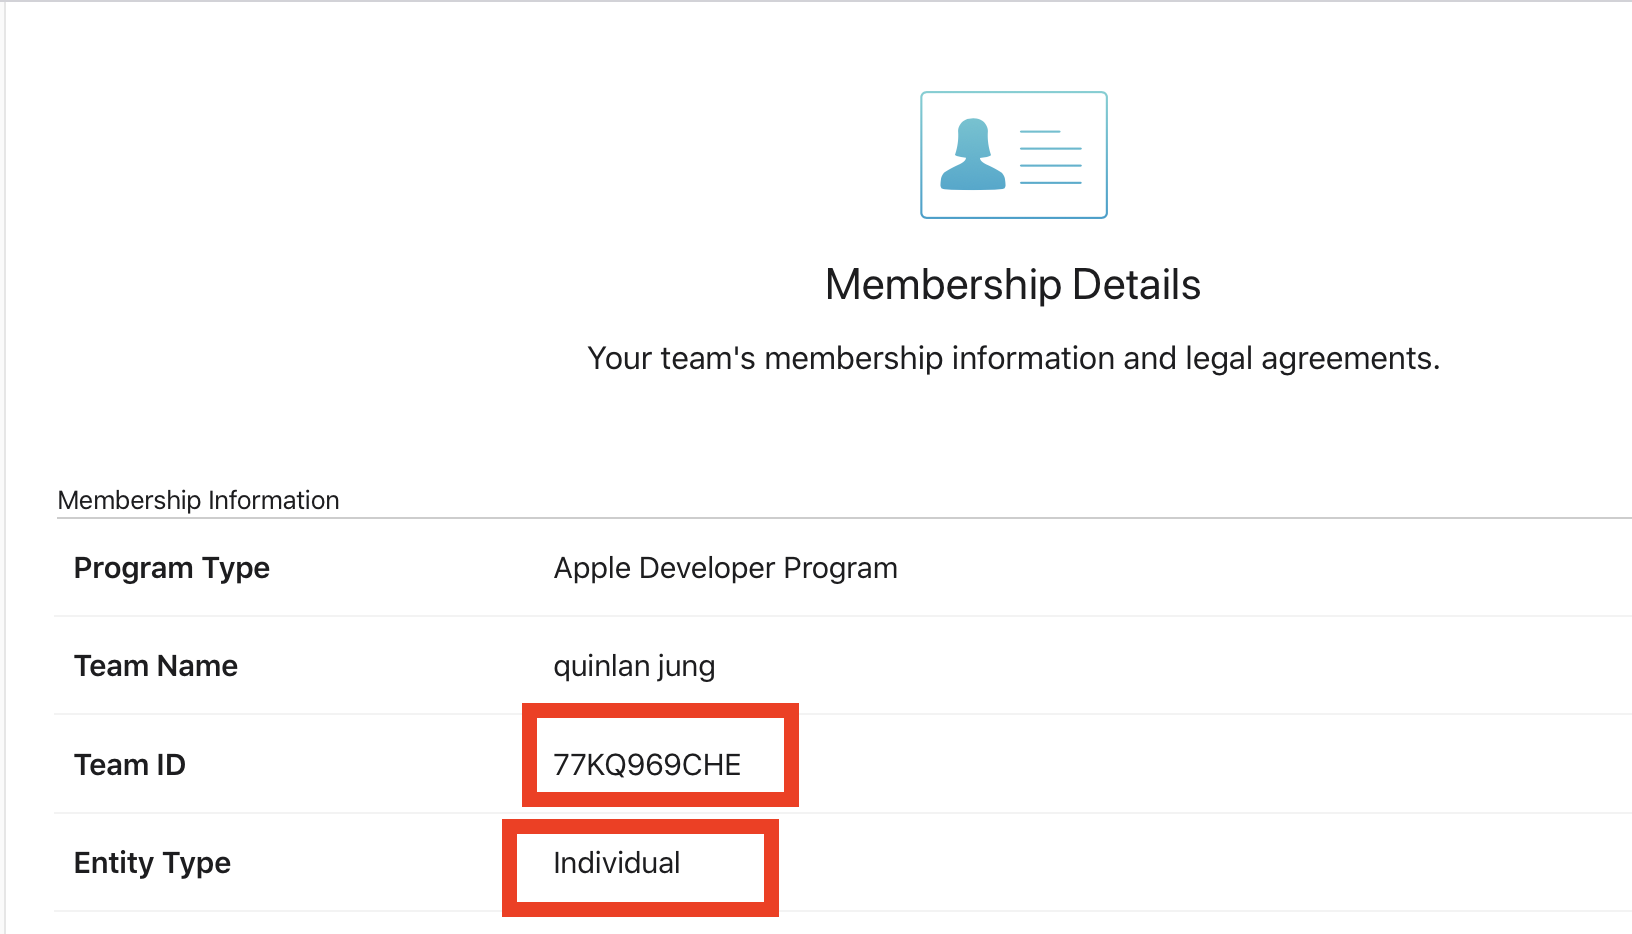
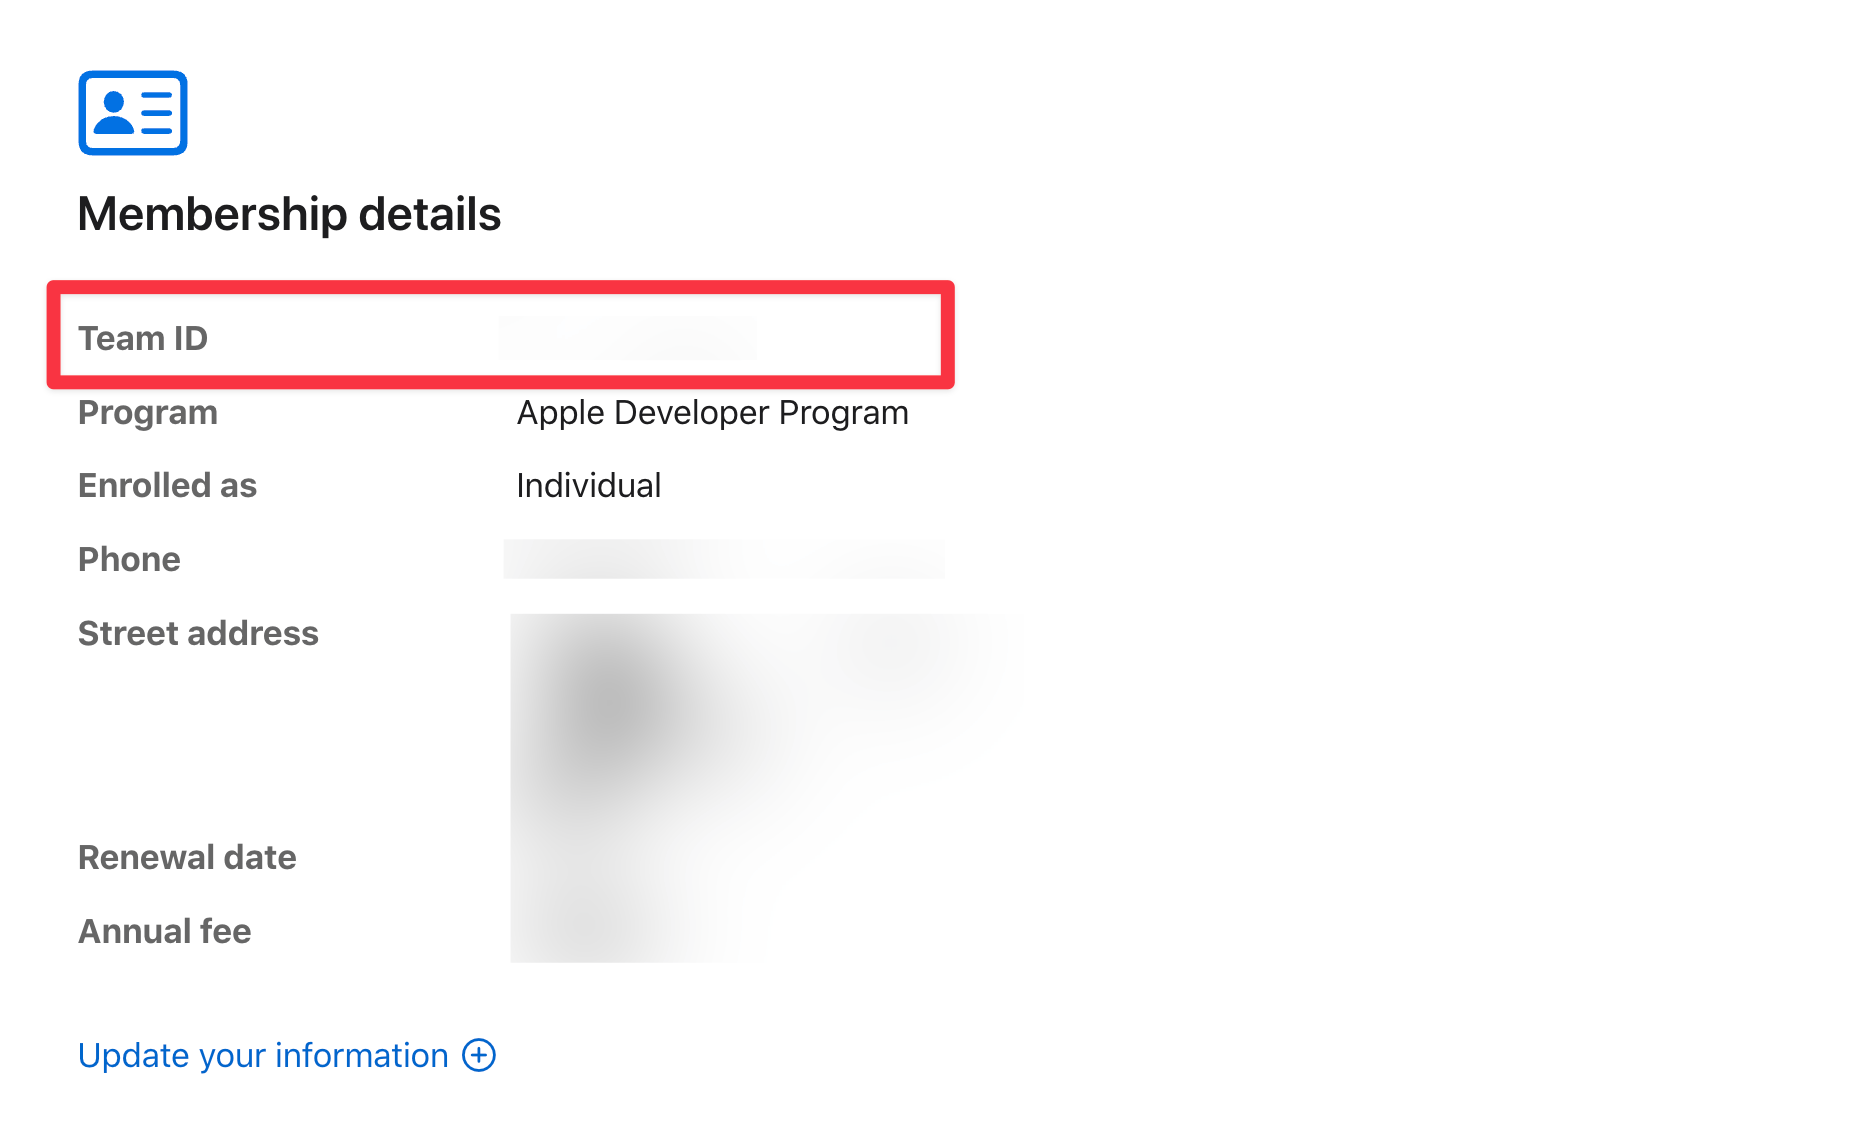
Update images and improve verbiage in Apple Team gyide

diff --git a/apple-team.md b/apple-team.md
@@ -1,9 +1,11 @@
 # Apple Team
 
-You can find information about your Apple Team at the [Developer Portal](https://developer.apple.com). You'll need to navigate over to the Membership tab on the left.
+You can find information about your Apple Team at the [Developer Portal](https://developer.apple.com).
 
-[<img src="./assets/apple-team/membership-tab.png" width="800" />](./assets/apple-team/membership-tab.png)
+- Click **Membership details** from the top panel to navigate to the membership details section.
 
-Next, you will find your Apple Team ID and membership type in the details section.
+  <img src="./assets/apple-team/membership-tab.png" width="800" />
 
-[<img src="./assets/apple-team/membership-details.png" width="800" />](./assets/apple-team/membership-details.png)
+- You will find your Apple Team ID and membership type in the details section.
+
+  <img src="./assets/apple-team/membership-details.png" width="800" />
